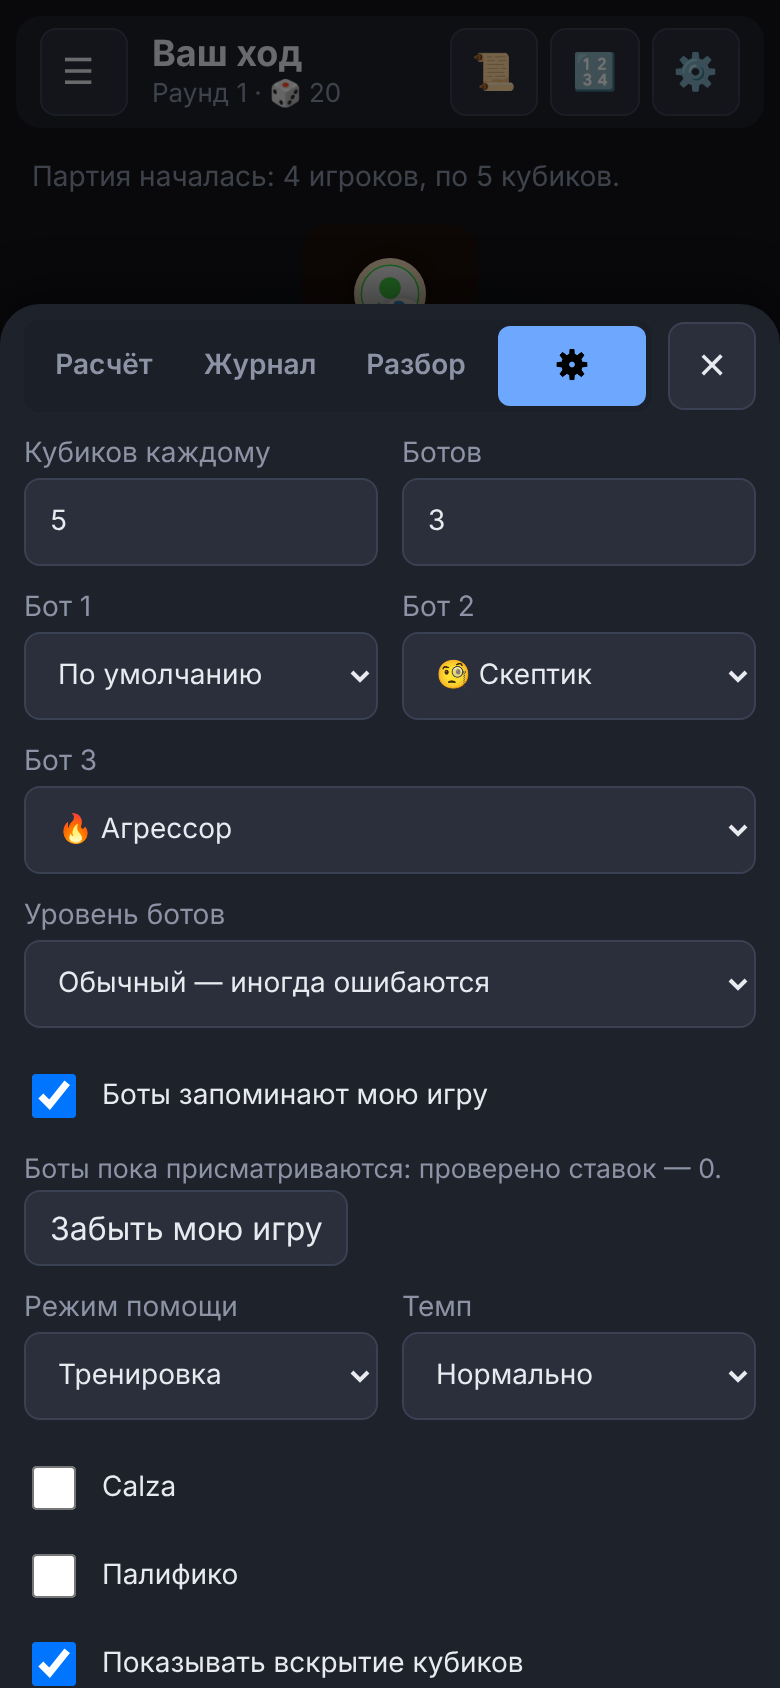
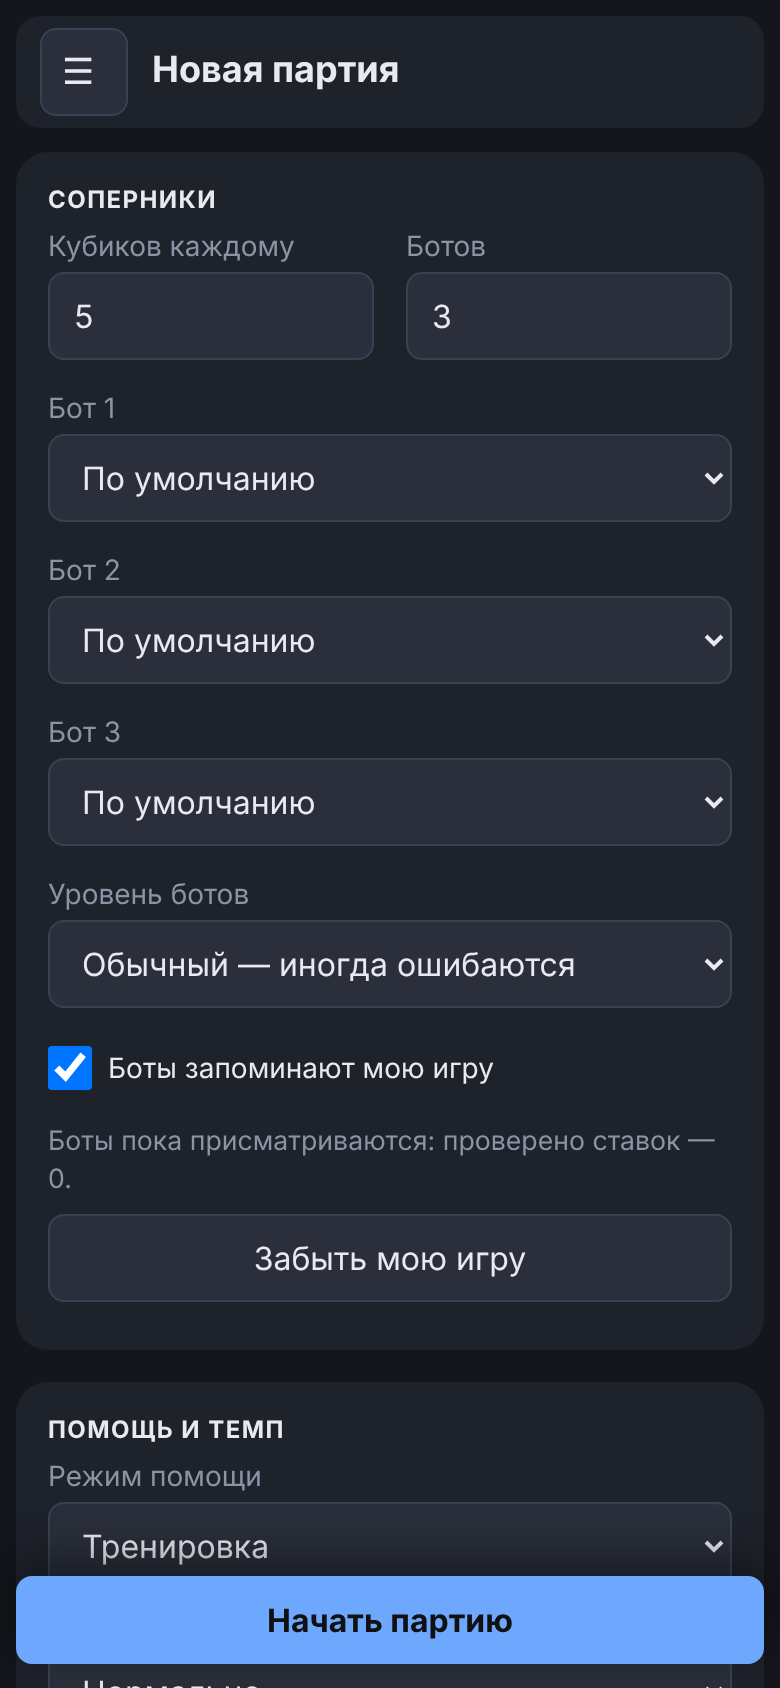
Документация: скриншоты экрана подготовки, тренажёра и симуляции; версия 2.4.0

diff --git a/README.md b/README.md
@@ -112,6 +112,10 @@
 - **Порог шанса** меняется кнопками «−» и «+» с шагом 0,05 (от 0,05 до 0,95). Это шанс, с которого ставка считается безопасной: при 0,50 ставка безопасна, если сбывается хотя бы в половине случаев. По умолчанию 0,50.
 - **Сбросить статистику** — ссылка внизу панели; перед сбросом приложение просит подтверждение.
 
+![Тренажёр: настройки на компьютере](docs/img/trainer-settings-desktop.png)
+
+![Тренажёр: настройки на телефоне](docs/img/trainer-settings-phone.png)
+
 Режимы:
 
 | Режим | Особенность |
@@ -191,7 +195,7 @@
 
 ### Настройки партии
 
-Открываются значком ⚙ (на компьютере — вкладка «⚙» справа от стола).
+Перед первой партией настройки показаны на экране подготовки («Новая партия»), в трёх карточках. Позже их можно менять во время игры: значок ⚙ (на компьютере — вкладка «⚙» справа от стола).
 
 - **Кубиков каждому** — от 1 до 10.
 - **Ботов** — от 1 до 5 (за столом получается от 2 до 6 игроков).
@@ -213,7 +217,11 @@
 
 ![Настройки партии на телефоне](docs/img/settings-phone.png)
 
+![Настройки партии на телефоне: правила и старт](docs/img/settings2-phone.png)
+
 ![Настройки партии на компьютере](docs/img/settings-desktop.png)
+
+*Экран подготовки: карточки «Соперники», «Помощь и темп» и «Дополнительные правила»; кнопка «Начать партию» остаётся внизу экрана.*
 
 ![Подсказки во время партии](docs/img/phone-calc.png)
 
